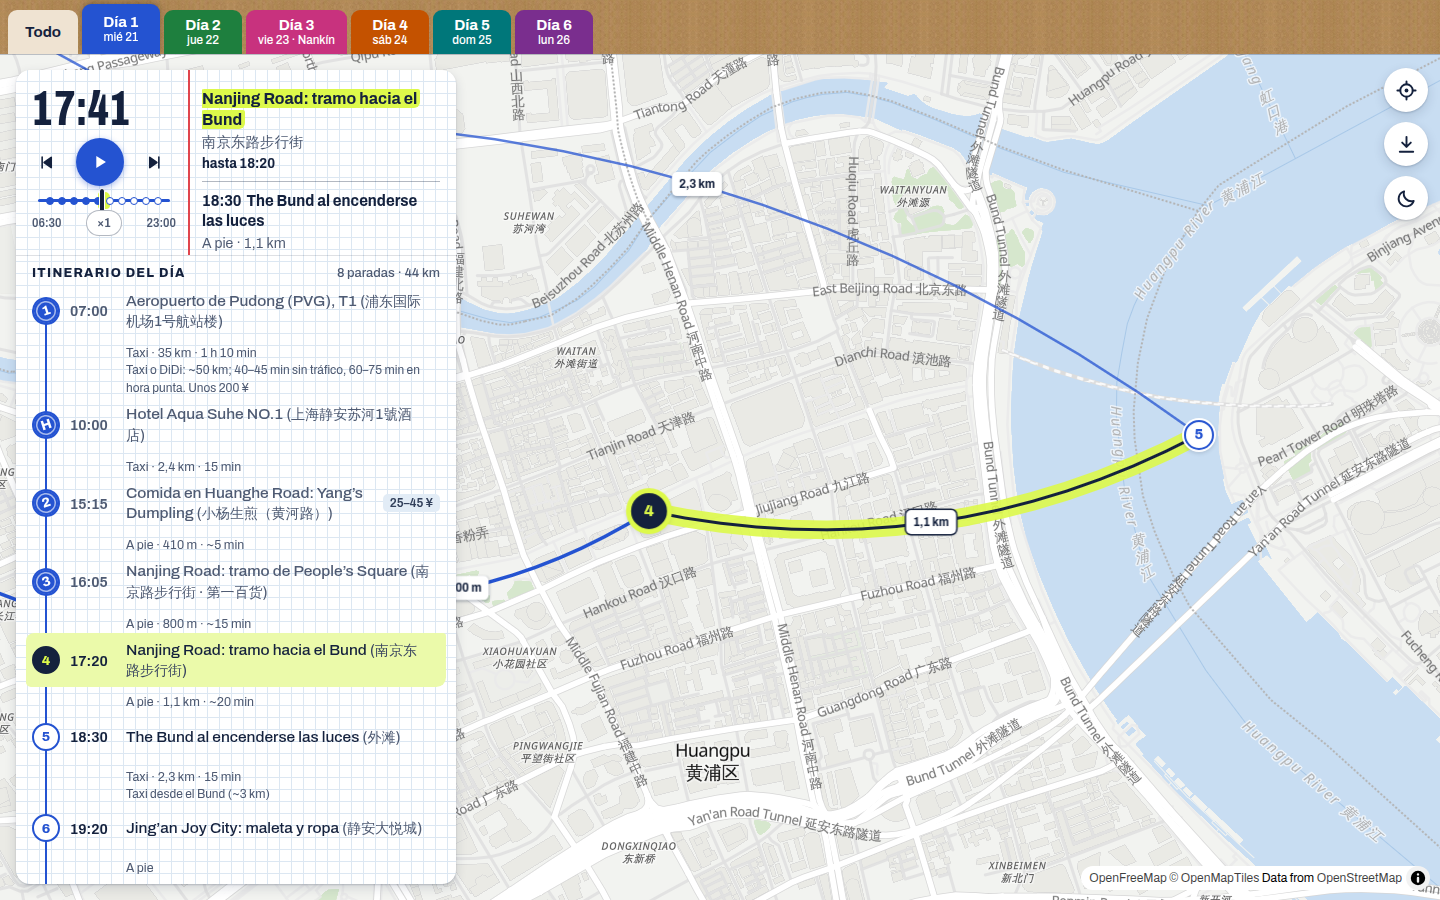
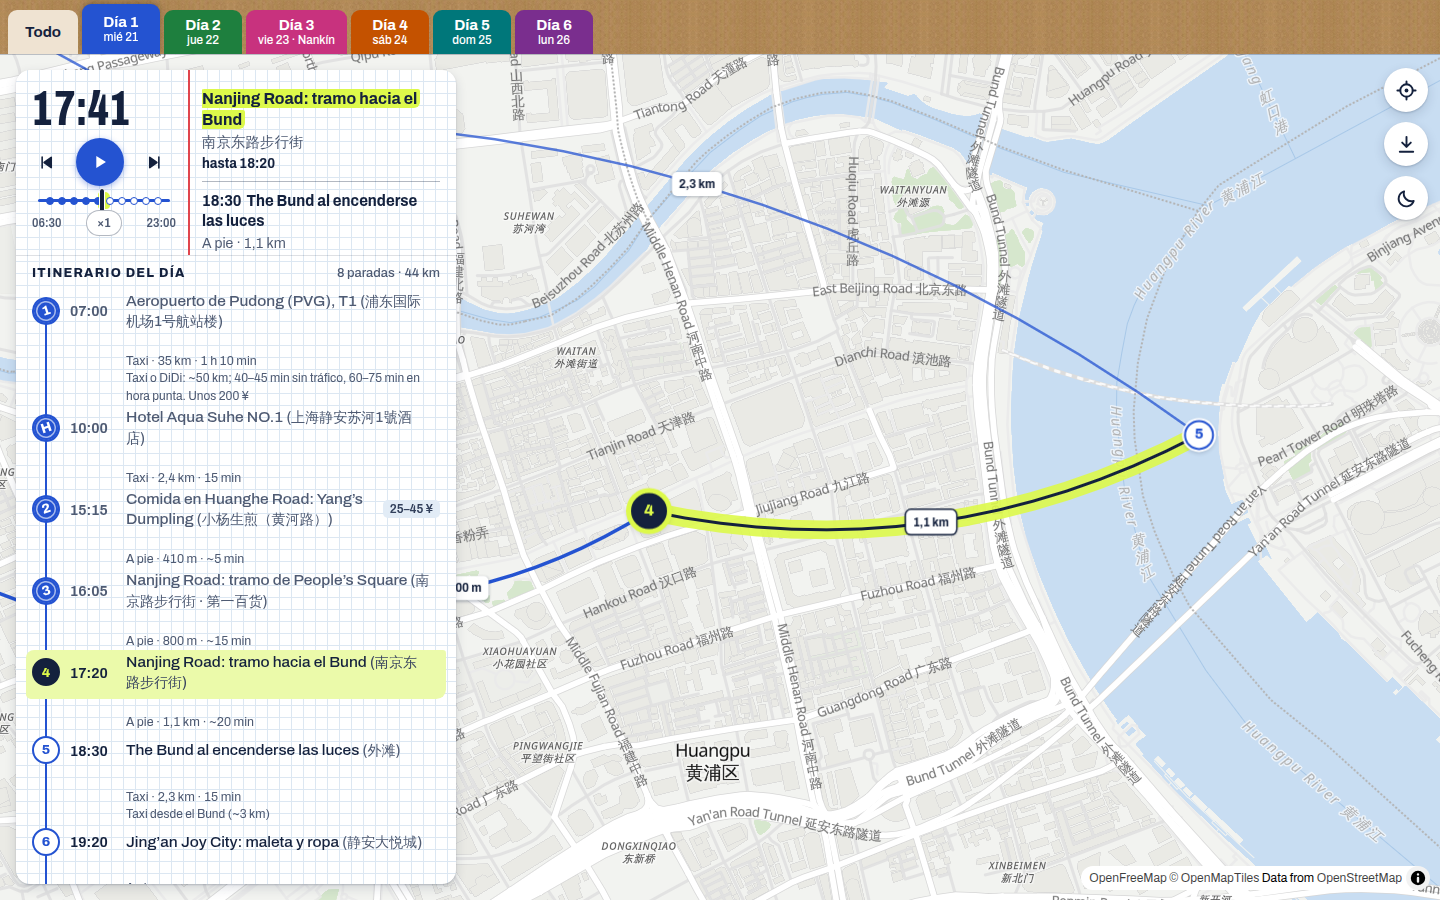
Grupos de paradas honestos y rótulos del mapa que se apartan
- Los marcadores que se pisan se agrupan en cadena y el grupo enseña solo sus
  números (p. ej. «2·3·5–8»); lo que cae bajo la parada actual se aparta a un
  lado sin salirse de la pantalla.
- Huecos invisibles en marcadores y distancias para que los rótulos del mapa
  base no queden debajo.
- Cada trayecto de la lista va pegado a la parada a la que lleva y la lista no
  corta ninguna línea al colocarse.

Claude-Session: https://claude.ai/code/session_01UmA6WMxyAHyYVzkAYjzsRF

diff --git a/src/mapa.ts b/src/mapa.ts
@@ -20,13 +20,21 @@ interface Elemento<G, P> {
 }
 type Linea = Elemento<{ type: 'LineString'; coordinates: LngLat[] }, { hecho: boolean; color: string }>;
 type Punto = Elemento<{ type: 'Point'; coordinates: LngLat }, { id: number; color: string }>;
+type Hueco = Elemento<{ type: 'Point'; coordinates: LngLat }, { img: string }>;
+const hueco = (pos: LngLat, img: string): Hueco => ({ type: 'Feature', geometry: { type: 'Point', coordinates: pos }, properties: { img } });
 
 const linea = (coords: LngLat[], hecho: boolean, color: string): Linea => ({
   type: 'Feature',
   geometry: { type: 'LineString', coordinates: coords },
   properties: { hecho, color },
 });
-const coleccion = (features: (Linea | Punto)[]) => ({ type: 'FeatureCollection' as const, features });
+const coleccion = (features: (Linea | Punto | Hueco)[]) => ({ type: 'FeatureCollection' as const, features });
+
+/**
+ * Huecos transparentes (ancho × alto en px) que se colocan donde van los marcadores y las
+ * pastillas: los rótulos del mapa base chocan con ellos y se apartan en vez de quedar debajo.
+ */
+const HUECOS: Record<string, [number, number]> = { marcador: [40, 40], pastilla: [66, 26], punto: [16, 16] };
 
 export interface Margenes {
   top: number;
@@ -105,10 +113,17 @@ const RETOQUES: Record<string, { claro: Record<string, string>; oscuro: Record<s
   water_name_line_label: { claro: { 'text-color': '#3a5f9f' }, oscuro: { 'text-color': '#8db3ea' } },
 };
 
-/** [2, 3, 7] → «2·3·7»; si son más de tres, solo los extremos: «2–8». */
+/** [2, 3, 5, 6, 7, 8] → «2–3·5–8»: solo los números que de verdad hay en el grupo. */
 function rango(numeros: number[]): string {
   const n = [...new Set(numeros)].sort((a, b) => a - b);
-  return n.length > 3 ? `${n[0]}–${n[n.length - 1]}` : n.join('·');
+  const tramos: string[] = [];
+  for (let i = 0; i < n.length; i++) {
+    let j = i;
+    while (j + 1 < n.length && n[j + 1] === n[j] + 1) j++;
+    tramos.push(j > i + 1 ? `${n[i]}–${n[j]}` : n.slice(i, j + 1).join('·'));
+    i = j;
+  }
+  return tramos.join('·');
 }
 
 export class VistaMapa {
@@ -182,6 +197,10 @@ export class VistaMapa {
     m.addSource('tinta', { type: 'geojson', data: vacio });
     m.addSource('todo', { type: 'geojson', data: vacio });
     m.addSource('todo-puntos', { type: 'geojson', data: vacio });
+    m.addSource('huecos', { type: 'geojson', data: vacio });
+    for (const [nombre, [w, h]] of Object.entries(HUECOS)) {
+      m.addImage(`hueco-${nombre}`, { width: w, height: h, data: new Uint8Array(w * h * 4) });
+    }
 
     const redondo = { 'line-cap': 'round', 'line-join': 'round' } as const;
     // El trazo fluorescente va debajo de todo: subraya el tramo que toca ahora.
@@ -233,6 +252,14 @@ export class VistaMapa {
         'circle-stroke-color': '#ffffff',
         'circle-stroke-width': 2,
       },
+    });
+    // Encima de todo para colocarse antes que los rótulos del mapa base.
+    m.addLayer({
+      id: 'huecos',
+      type: 'symbol',
+      source: 'huecos',
+      layout: { 'icon-image': ['concat', 'hueco-', ['get', 'img']], 'icon-allow-overlap': true },
+      paint: { 'icon-opacity': 0 },
     });
     m.on('click', 'todo-puntos', (e) => {
       const id = e.features?.[0]?.properties?.id;
@@ -355,6 +382,12 @@ export class VistaMapa {
       const m = new Marker({ element: el }).setLngLat(puntoEnArco(t.arco, 0.5)).addTo(this.mapa);
       this.pastillas.push({ m, t });
     }
+    this.fuente('huecos')?.setData(
+      coleccion([
+        ...[...grupos.values()].map((g) => hueco(g[0].pos, 'marcador')),
+        ...dia.tramos.filter((t) => !t.nulo).map((t) => hueco(puntoEnArco(t.arco, 0.5), 'pastilla')),
+      ]),
+    );
     this.ajustarPastillas();
   }
 
@@ -390,26 +423,39 @@ export class VistaMapa {
     this.racimos.clear();
     const puntos = this.marcadores.map((x) => {
       const el = x.m.getElement();
-      el.classList.remove('oculto', 'racimo', 'junto-actual');
+      el.classList.remove('oculto', 'racimo', 'junto-actual', 'junto-actual-dcha');
       el.querySelector('span')!.textContent = x.etiqueta;
       return { x, el, p: this.mapa.project(x.grupo[0].pos), actual: el.classList.contains('actual') };
     });
-    const usados = new Set<(typeof puntos)[number]>();
-    for (const a of puntos) {
-      if (a.actual || usados.has(a)) continue;
-      const cerca = puntos.filter((b) => b !== a && !b.actual && !usados.has(b) && Math.hypot(a.p.x - b.p.x, a.p.y - b.p.y) < 26);
-      if (!cerca.length) continue;
-      const todas = [a, ...cerca].flatMap((c) => c.x.grupo);
-      usados.add(a);
-      for (const b of cerca) {
-        usados.add(b);
-        b.el.classList.add('oculto');
+    const actual = puntos.find((c) => c.actual);
+    const otros = puntos.filter((c) => !c.actual);
+    const cerca = (a: (typeof puntos)[number], b: (typeof puntos)[number], d: number) =>
+      Math.hypot(a.p.x - b.p.x, a.p.y - b.p.y) < d;
+    // Grupos encadenados: si A pisa a B y B pisa a C, van los tres juntos. Lo que queda bajo la
+    // parada actual también se junta, para apartarlo a un lado.
+    const raiz = otros.map((_, i) => i);
+    const buscar = (i: number): number => (raiz[i] === i ? i : (raiz[i] = buscar(raiz[i])));
+    const bajoActual = otros.map((o) => !!actual && cerca(o, actual, 34));
+    for (let i = 0; i < otros.length; i++) {
+      for (let j = i + 1; j < otros.length; j++) {
+        if (cerca(otros[i], otros[j], 26) || (bajoActual[i] && bajoActual[j])) raiz[buscar(j)] = buscar(i);
       }
-      a.el.classList.add('racimo');
-      const actual = puntos.find((c) => c.actual);
-      a.el.classList.toggle('junto-actual', !!actual && Math.hypot(a.p.x - actual.p.x, a.p.y - actual.p.y) < 40);
-      a.el.querySelector('span')!.textContent = rango(todas.map((p) => p.n).filter((n) => n !== null)) || 'H';
-      this.racimos.set(a.x.m, todas);
+    }
+    const grupos = new Map<number, number[]>();
+    otros.forEach((_, i) => grupos.set(buscar(i), [...(grupos.get(buscar(i)) ?? []), i]));
+    for (const indices of grupos.values()) {
+      const miembros = indices.map((i) => otros[i]);
+      const lider = miembros[0];
+      if (miembros.length > 1) {
+        for (const m of miembros.slice(1)) m.el.classList.add('oculto');
+        const todas = miembros.flatMap((c) => c.x.grupo);
+        lider.el.classList.add('racimo');
+        lider.el.querySelector('span')!.textContent = rango(todas.map((p) => p.n).filter((n) => n !== null)) || 'H';
+        this.racimos.set(lider.x.m, todas);
+      }
+      if (indices.some((i) => bajoActual[i]) || (actual && cerca(lider, actual, 40))) {
+        lider.el.classList.add(lider.p.x < 120 ? 'junto-actual-dcha' : 'junto-actual');
+      }
     }
   }
 
@@ -433,6 +479,7 @@ export class VistaMapa {
     this.fuente('todo')?.setData(
       coleccion(dias.flatMap((d) => d.tramos.filter((t) => !t.nulo).map((t) => linea(t.arco.coords, true, this.colorDe(d))))),
     );
+    this.fuente('huecos')?.setData(coleccion(paradas.map((p) => hueco(p.pos, 'punto'))));
     this.fuente('todo-puntos')?.setData(
       coleccion(
         paradas.map(

diff --git a/src/estilos.css b/src/estilos.css
@@ -737,8 +737,9 @@ li.hecha .hora-fila {
   vertical-align: 1px;
 }
 
+/* El trayecto va pegado a la parada a la que lleva y separado de la anterior. */
 li.tramo {
-  padding: 6px 0 0 94px;
+  padding: 14px 0 0 94px;
   color: var(--tinta-suave);
   font-size: 13.5px;
   font-stretch: 90%;
@@ -747,6 +748,10 @@ li.tramo {
 li.tramo small {
   display: block;
   font-size: 13px;
+}
+li.tramo + li.parada > .fila {
+  min-height: 42px;
+  padding-top: 2px;
 }
 li.tramo.actual {
   color: var(--tinta-fija);
@@ -1048,9 +1053,12 @@ body.vista-todo .lista {
   border-width: 4px;
   rotate: 0deg;
 }
-/* Si el grupo cae bajo la parada actual, se aparta a su izquierda. */
+/* Si el grupo cae bajo la parada actual, se aparta a un lado (a la derecha si no cabe). */
 .marcador.junto-actual > span {
-  translate: calc(-50% - 22px) 0;
+  translate: calc(-50% - 30px) 0;
+}
+.marcador.junto-actual-dcha > span {
+  translate: calc(50% + 30px) 0;
 }
 .marcador.varios > span {
   width: auto;

diff --git a/src/main.ts b/src/main.ts
@@ -512,8 +512,11 @@ function mostrarFila(li: HTMLElement | null, suave = true) {
   const arriba = li.offsetTop;
   const abajo = arriba + li.offsetHeight;
   if (arriba >= c.scrollTop && abajo <= c.scrollTop + c.clientHeight) return;
+  // Contexto: la parada anterior con el trayecto que lleva a ella, para no cortar ninguna línea.
   let previa = li.previousElementSibling as HTMLElement | null;
   while (previa && !previa.classList.contains('parada')) previa = previa.previousElementSibling as HTMLElement | null;
+  const encima = previa?.previousElementSibling as HTMLElement | null;
+  if (previa && encima?.classList.contains('tramo')) previa = encima;
   const conContexto = previa && abajo - previa.offsetTop <= c.clientHeight ? previa.offsetTop : arriba;
   c.scrollTo({ top: Math.max(0, conContexto - 6), behavior: suave ? 'smooth' : 'auto' });
 }
